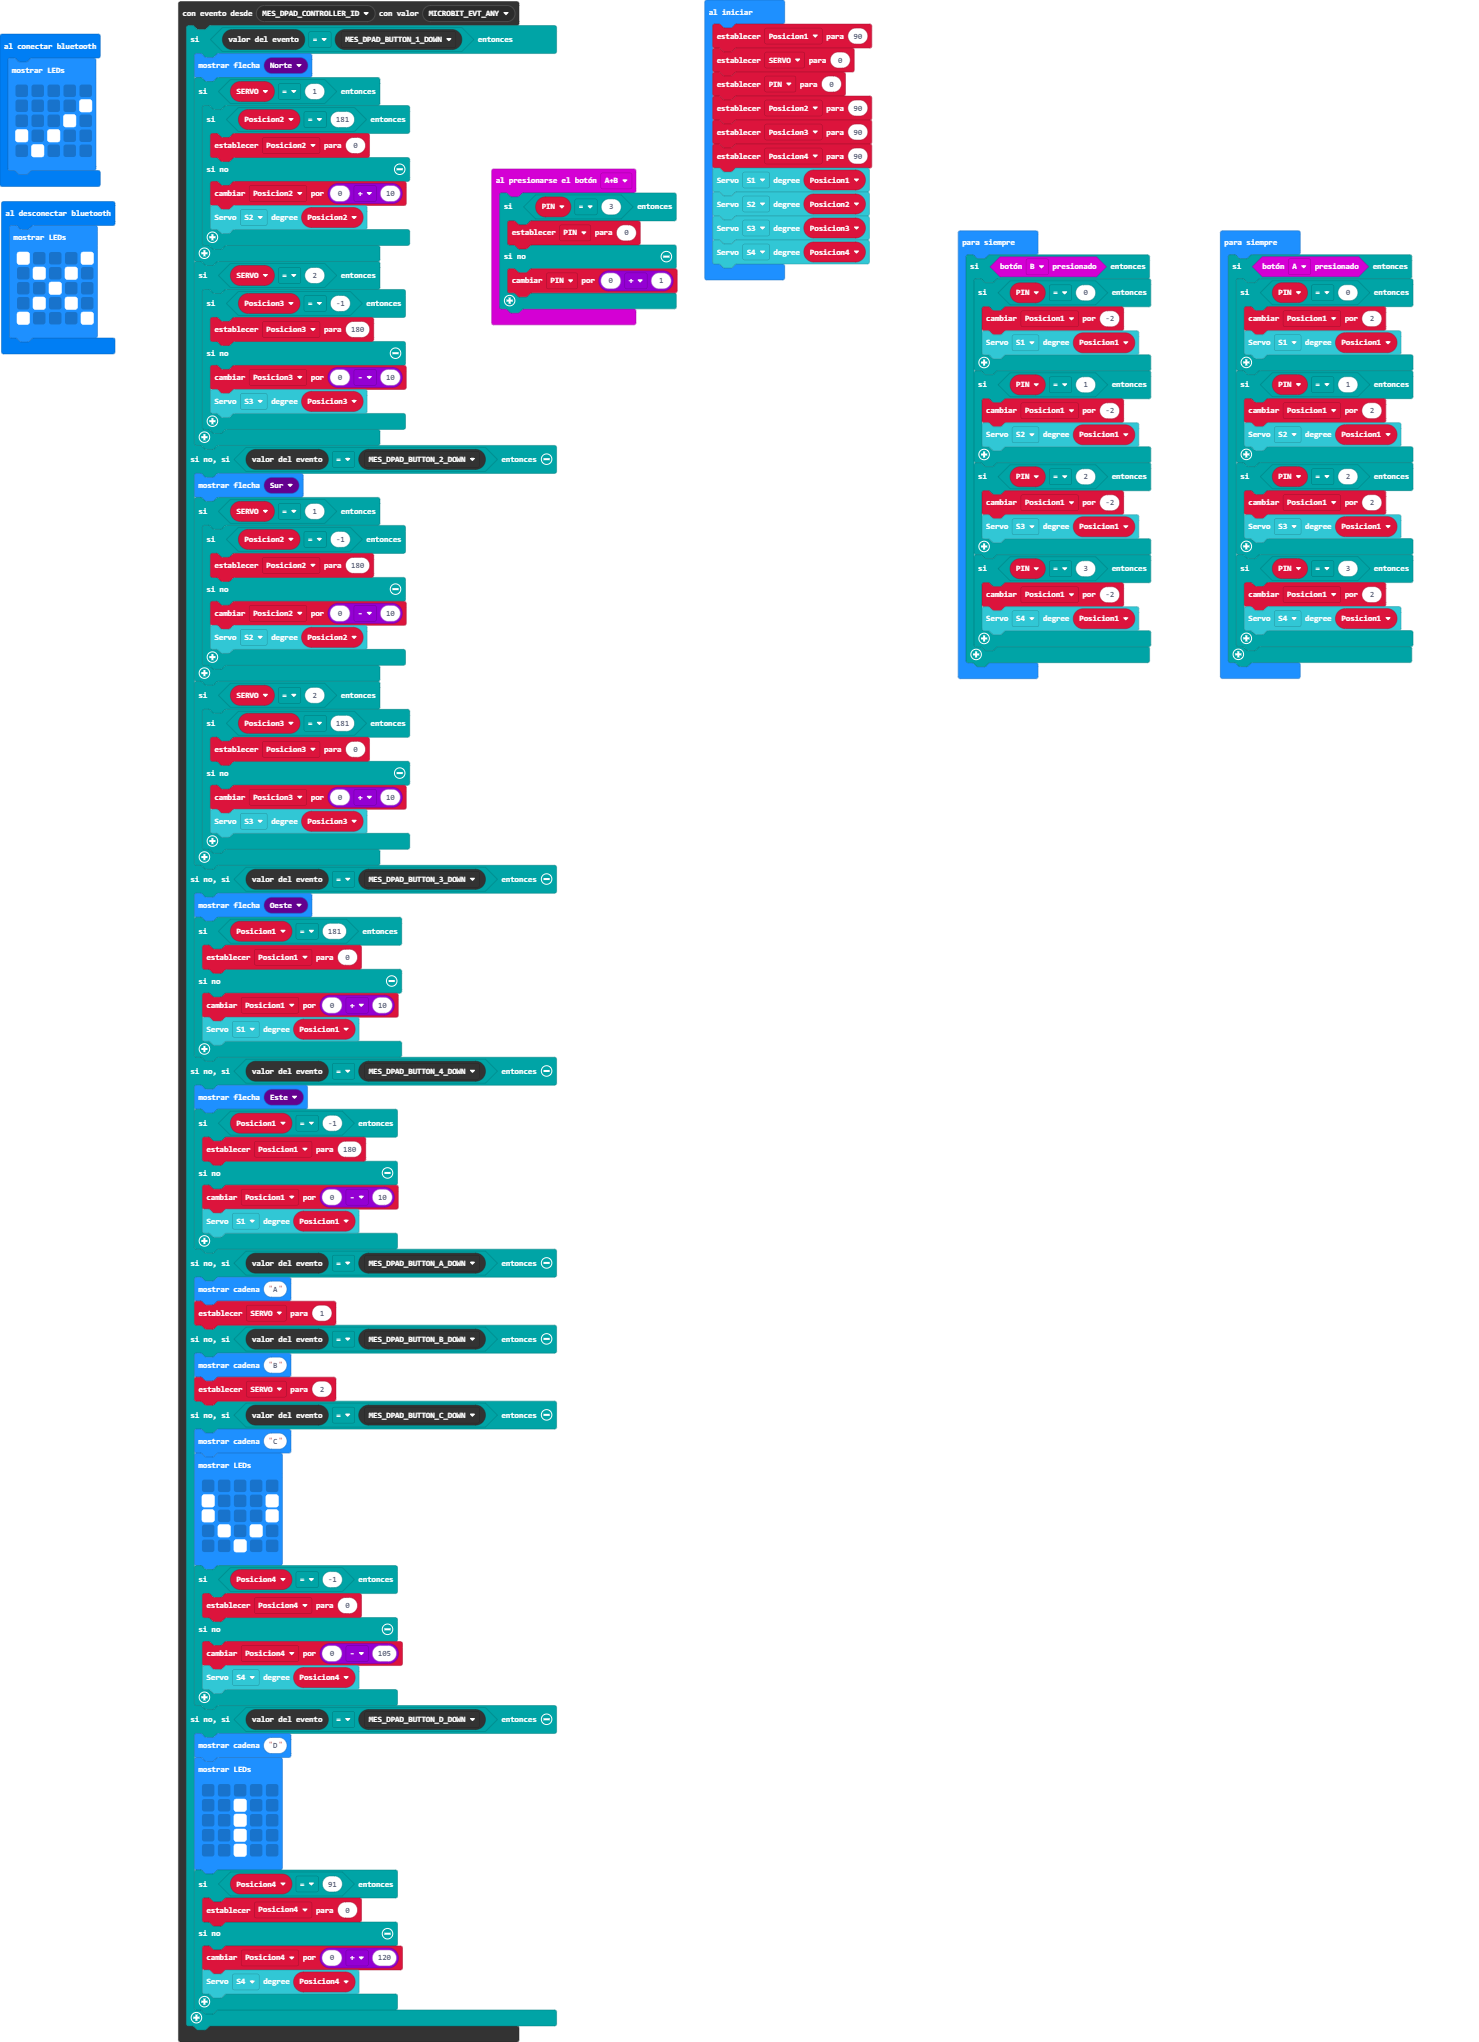
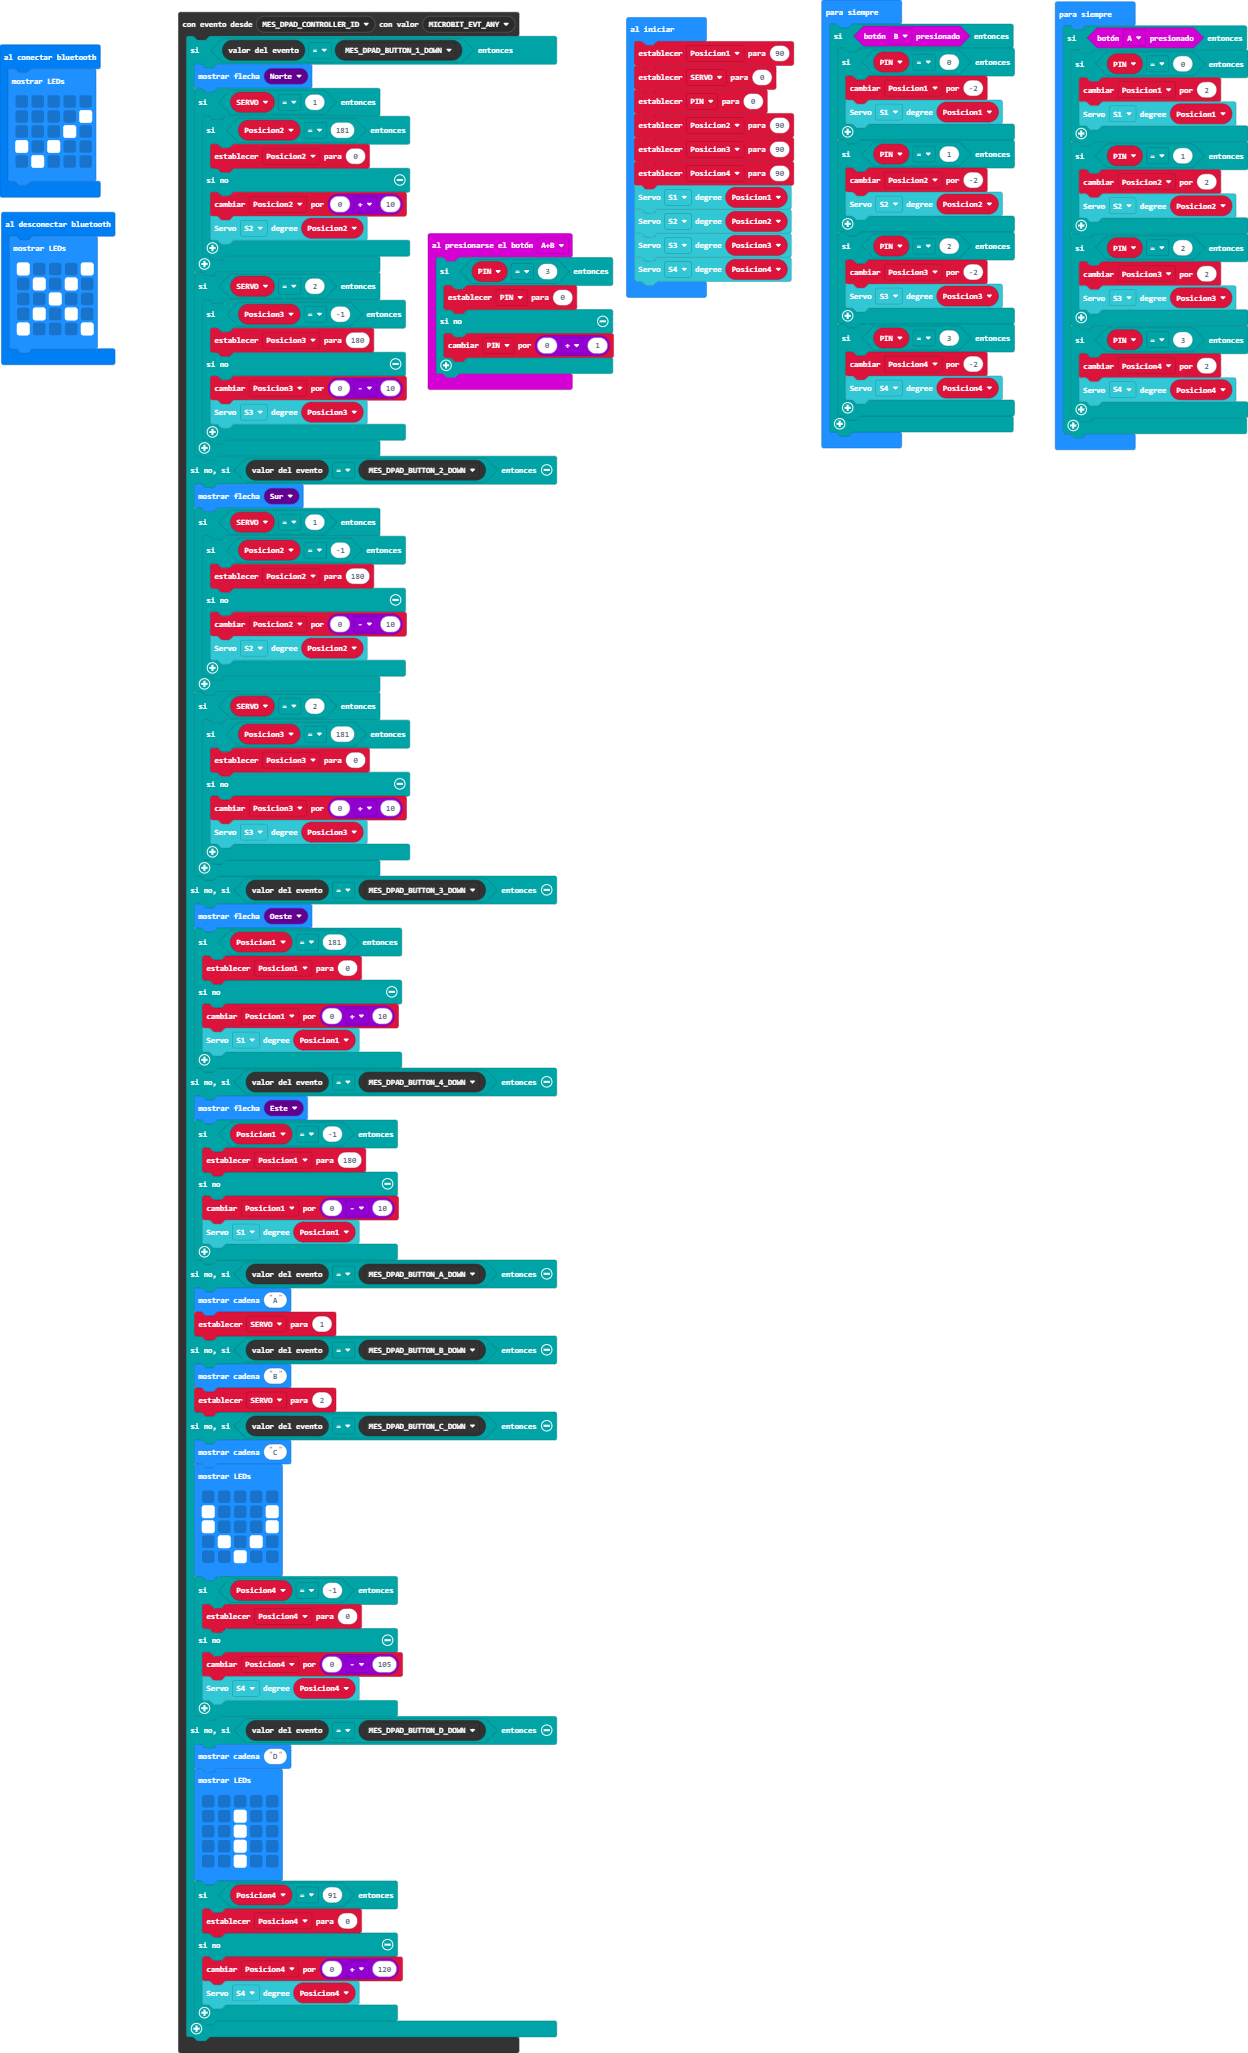
Ya funciona

Changed region(s): [[0.0, 0.0, 1.0, 1.0], [0.3438, 0.9564, 0.4688, 1.0]]

diff --git a/main.ts b/main.ts
@@ -137,16 +137,16 @@ basic.forever(function () {
             robotbit.Servo(robotbit.Servos.S1, Posicion1)
         }
         if (PIN == 1) {
-            Posicion1 += -2
-            robotbit.Servo(robotbit.Servos.S2, Posicion1)
+            Posicion2 += -2
+            robotbit.Servo(robotbit.Servos.S2, Posicion2)
         }
         if (PIN == 2) {
-            Posicion1 += -2
-            robotbit.Servo(robotbit.Servos.S3, Posicion1)
+            Posicion3 += -2
+            robotbit.Servo(robotbit.Servos.S3, Posicion3)
         }
         if (PIN == 3) {
-            Posicion1 += -2
-            robotbit.Servo(robotbit.Servos.S4, Posicion1)
+            Posicion4 += -2
+            robotbit.Servo(robotbit.Servos.S4, Posicion4)
         }
     }
 })
@@ -157,16 +157,16 @@ basic.forever(function () {
             robotbit.Servo(robotbit.Servos.S1, Posicion1)
         }
         if (PIN == 1) {
-            Posicion1 += 2
-            robotbit.Servo(robotbit.Servos.S2, Posicion1)
+            Posicion2 += 2
+            robotbit.Servo(robotbit.Servos.S2, Posicion2)
         }
         if (PIN == 2) {
-            Posicion1 += 2
-            robotbit.Servo(robotbit.Servos.S3, Posicion1)
+            Posicion3 += 2
+            robotbit.Servo(robotbit.Servos.S3, Posicion3)
         }
         if (PIN == 3) {
-            Posicion1 += 2
-            robotbit.Servo(robotbit.Servos.S4, Posicion1)
+            Posicion4 += 2
+            robotbit.Servo(robotbit.Servos.S4, Posicion4)
         }
     }
 })
